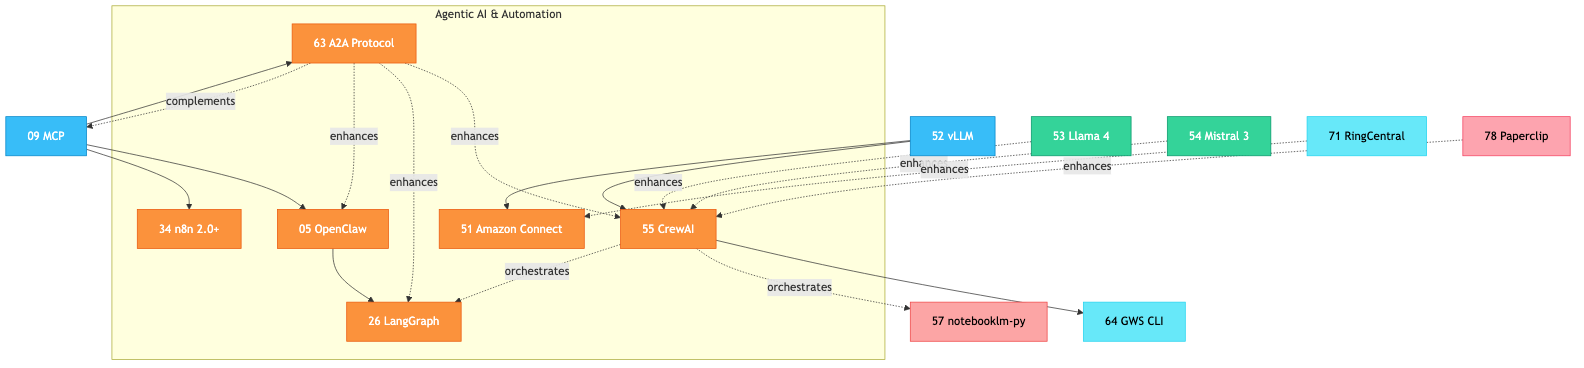
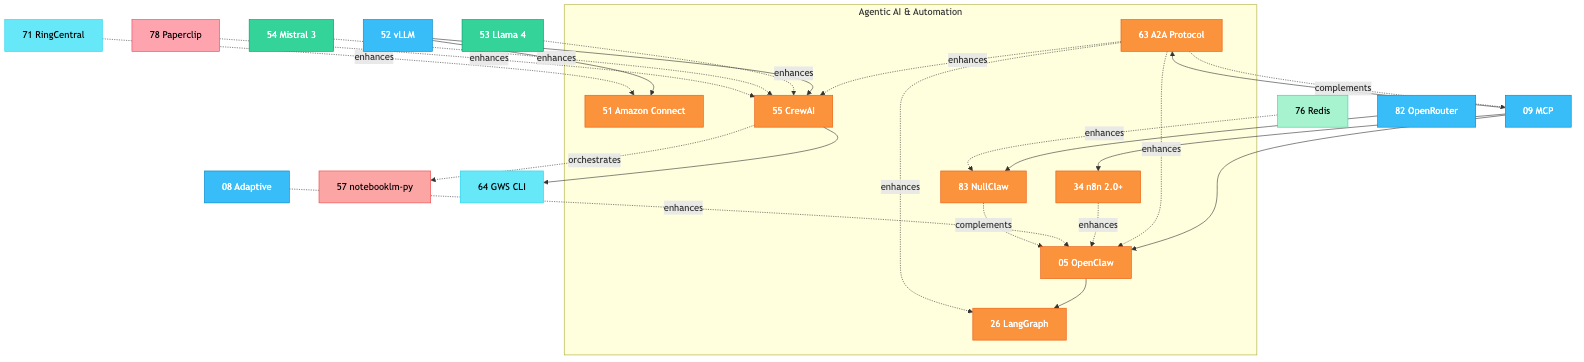
Update experiment roadmap v7.0 with experiments 79-85 and regenerate PNGs
Adds OptiFreight, ShipStation API, Amazon Textract, OpenRouter, NullClaw,
AutoResearch, and WebHaptics to registry, dependency graph, execution tiers,
Gantt chart, parallel tracks, interconnection matrix, platform coverage,
and category legend. Regenerates 7 category PNGs and main dependency chains.

diff --git a/docs/experiments/00-Experiment-Interconnection-Roadmap.md b/docs/experiments/00-Experiment-Interconnection-Roadmap.md
@@ -269,6 +269,8 @@ flowchart TD
         E65["65 FedEx API"]
         E66["66 UPS API"]
         E67["67 OnTime 360"]
+        E79["79 OptiFreight"]
+        E80["80 ShipStation API"]
     end
 
     %% ── Subgraph: Collaboration & Communications ──
@@ -281,6 +283,7 @@ flowchart TD
     %% ── Subgraph: Document Processing ──
     subgraph DOCAI["Document Processing"]
         E69["69 Azure Doc Intel"]
+        E81["81 Amazon Textract"]
     end
 
     %% ── Subgraph: Revenue Cycle & Billing ──
@@ -384,6 +387,11 @@ flowchart TD
     E77 --> E78
     E71 --> E78
 
+    %% ── Hard Dependencies (solid arrows) ── New 79-85
+    E82 --> E83
+    E39 --> E84
+    E37 --> E85
+
     %% ── Complementary / Enhances (dashed arrows) ── Original
     E07 -.->|enhances| E10
     E07 -.->|enhances| E21
@@ -460,6 +468,25 @@ flowchart TD
     E77 -.->|complements| E38
     E78 -.->|enhances| E55
 
+    %% ── Complementary / Enhances (dashed arrows) ── New 79-85
+    E79 -.->|complements| E65
+    E79 -.->|complements| E66
+    E79 -.->|complements| E67
+    E80 -.->|complements| E65
+    E80 -.->|complements| E66
+    E80 -.->|complements| E79
+    E81 -.->|complements| E69
+    E81 -.->|enhances| E78
+    E82 -.->|enhances| E15
+    E82 -.->|enhances| E52
+    E82 -.->|enhances| E29
+    E83 -.->|complements| E05
+    E83 -.->|enhances| E76
+    E84 -.->|enhances| E18
+    E84 -.->|enhances| E07
+    E84 -.->|enhances| E13
+    E85 -.->|enhances| E30
+
     %% ── Color Classes ──
     classDef ui fill:#818cf8,stroke:#4f46e5,color:#fff
     classDef infra fill:#38bdf8,stroke:#0284c7,color:#fff
@@ -484,13 +511,13 @@ flowchart TD
     classDef hie fill:#c4b5fd,stroke:#8b5cf6,color:#fff
     classDef orchestration fill:#fda4af,stroke:#f43f5e,color:#000
 
-    class E00,E01,E02,E03 ui
-    class E09,E08,E15,E29,E52,E42 infra
-    class E06,E13,E20,E53,E54 models
+    class E00,E01,E02,E03,E85 ui
+    class E09,E08,E15,E29,E52,E42,E82 infra
+    class E06,E13,E20,E53,E54,E84 models
     class E07,E10,E21,E30,E33,E35 speech
     class E11,E18 cds
     class E16,E17,E70 interop
-    class E05,E26,E34,E55,E51,E63 agents
+    class E05,E26,E34,E55,E51,E63,E83 agents
     class E37,E38 realtime
     class E25 edge
     class E12,E14,E19,E24,E27,E28,E31,E32,E36,E60,E61,E62 devtool
@@ -499,9 +526,9 @@ flowchart TD
     class E39,E58 platform
     class E57,E59,E41,E40 knowledge
     class E50,E72 security
-    class E65,E66,E67 shipping
+    class E65,E66,E67,E79,E80 shipping
     class E64,E68,E71 comms
-    class E69 docai
+    class E69,E81 docai
     class E73,E74,E75 revcycle
     class E76 cache
     class E77 hie
@@ -564,6 +591,10 @@ Build on Tier 0 foundations. These experiments provide core AI, interop, securit
 | 73 | pVerify | None (insurance eligibility verification) |
 | 74 | FrontRunnerHC | None (provider discovery and network status) |
 | 76 | Redis | None (in-memory cache, Pub/Sub, task queues) |
+| 79 | OptiFreight | None (healthcare freight management) |
+| 80 | ShipStation API | None (multi-carrier shipping) |
+| 81 | Amazon Textract | None (ML-powered document OCR) |
+| 82 | OpenRouter | None (unified AI gateway) |
 
 ### Tier 2 — Integration & Expansion (Weeks 6–9)
 
@@ -600,6 +631,9 @@ Combine Tier 1 capabilities into integrated workflows. Multiple experiments can 
 | 63 | A2A Protocol | 09-MCP (inter-agent communication protocol) |
 | 75 | Xero API | 47-Availity, 73-pVerify, 74-FrontRunnerHC (cloud accounting/invoicing) |
 | 77 | Mirth Connect | 16-FHIR, 17-HL7v2 (healthcare integration engine) |
+| 83 | NullClaw | 82-OpenRouter (ultra-lightweight AI assistant runtime) |
+| 84 | AutoResearch | 39-Docker (autonomous ML model optimization) |
+| 85 | WebHaptics | 37-WebSocket (mobile haptic feedback for clinical UX) |
 
 ### Tier 3 — Advanced Capabilities (Weeks 10–12)
 
@@ -640,12 +674,16 @@ Full end-to-end clinical workflows combining multiple experiments.
 | **Secure Mobile Clinical Platform** | 72 + 25 + 37 | TinyMDM device policy → Edge Vision Stream capture → WebSocket real-time sync |
 | **Revenue Cycle Automation Pipeline** | 73 + 74 + 75 + 47 + 78 | Verify eligibility → Discover providers → Invoice via Xero → Paperclip agent governance |
 | **Healthcare Agent Orchestration Stack** | 78 + 77 + 76 + 37 | Paperclip agents → Mirth Connect message routing → Redis real-time Pub/Sub → WebSocket delivery |
+| **Full-Stack Shipping Platform** | 65 + 66 + 67 + 79 + 80 | FedEx/UPS national + OnTime 360 local + OptiFreight freight management + ShipStation multi-carrier aggregation |
+| **Intelligent Document Pipeline** | 69 + 81 + 78 | Azure Doc Intel + Amazon Textract dual-engine OCR → Paperclip agent-orchestrated review queue |
+| **Omnichannel AI Assistant** | 82 + 83 + 76 + 37 + 05 | OpenRouter multi-model gateway → NullClaw 19-channel AI assistant → Redis cache → WebSocket real-time delivery + OpenClaw cloud complement |
+| **Self-Improving Clinical AI** | 39 + 52 + 84 + 18 + 07 | Docker → vLLM inference → AutoResearch overnight optimization → improved ISIC + MedASR models |
 
 ### Execution Timeline (Gantt)
 
 ```mermaid
 gantt
-    title Experiment Execution Tiers (v6.0)
+    title Experiment Execution Tiers (v7.0)
     dateFormat YYYY-MM-DD
     axisFormat %b %d
 
@@ -689,6 +727,10 @@ gantt
     73 pVerify                 :t73, 2026-03-16, 7d
     74 FrontRunnerHC            :t74, 2026-03-16, 7d
     76 Redis                    :t76, 2026-03-16, 7d
+    79 OptiFreight              :t79, 2026-03-16, 7d
+    80 ShipStation API          :t80, 2026-03-16, 7d
+    81 Amazon Textract          :t81, 2026-03-16, 7d
+    82 OpenRouter               :t82, 2026-03-16, 7d
 
     section Tier 2 — Integration
     05 OpenClaw                :t05, after t09, 10d
@@ -720,6 +762,9 @@ gantt
     63 A2A Protocol             :t63, after t09, 10d
     75 Xero API                :t75, after t73, 10d
     77 Mirth Connect            :t77, after t17, 10d
+    83 NullClaw                 :t83, after t82, 7d
+    84 AutoResearch             :t84, after t39, 10d
+    85 WebHaptics               :t85, after t37, 5d
 
     section Tier 3 — Advanced
     18 ISIC Archive            :t18, after t13, 10d
@@ -749,6 +794,10 @@ gantt
     Secure Mobile Platform     :t_smp, after t72, 10d
     Revenue Cycle Pipeline     :t_rcp, after t78, 14d
     Agent Orchestration Stack  :t_aos, after t78, 10d
+    Full Shipping Platform     :t_fsp, after t80, 10d
+    Intelligent Doc Pipeline   :t_idp, after t81, 10d
+    Omnichannel AI Assistant   :t_oaa, after t83, 10d
+    Self-Improving Clinical AI :t_sca, after t84, 14d
 ```
 
 ---
@@ -762,6 +811,7 @@ Twelve independent tracks that can be staffed and executed simultaneously. Cross
 01-Storybook → 02-v0 → 03-Banani → 00-Tambo
                                        ↑
                                   (needs 09-MCP from Track D)
+85-WebHaptics  (haptic feedback — needs 37-WebSocket from Track C)
 ```
 
 ### Track B — Clinical AI Models
@@ -796,6 +846,11 @@ Twelve independent tracks that can be staffed and executed simultaneously. Cross
          {55-CrewAI, 51-Amazon Connect}
                 ↓
          64-GWS CLI  (agent-to-workspace bridge — depends on CrewAI)
+
+82-OpenRouter → 83-NullClaw  (unified AI gateway → ultra-lightweight AI assistant)
+         (NullClaw complements 05-OpenClaw: NullClaw for edge/lightweight, OpenClaw for cloud)
+
+39-Docker → 84-AutoResearch  (autonomous ML optimization — enhances 18-ISIC, 07-MedASR models)
 
 73-pVerify + 47-Availity + 75-Xero + 77-Mirth + 71-RingCentral → 78-Paperclip
          (AI agent orchestration — governance umbrella consuming multiple experiments)
@@ -843,19 +898,22 @@ Twelve independent tracks that can be staffed and executed simultaneously. Cross
 Integration point: CrewAI (Track D) feeds content → notebooklm-py transforms it
 ```
 
-### Track I — Shipping & Logistics _(new)_
+### Track I — Shipping & Logistics
 ```
 {65-FedEx API, 66-UPS API}  (national shipping — parallel, complementary)
 67-OnTime 360               (local courier dispatch — complements 65/66)
+79-OptiFreight              (healthcare freight management — complements 65/66/67)
+80-ShipStation API          (multi-carrier aggregation — complements all above)
 
 Integration point: 69-Azure Doc Intel (Track J) enhances shipping document processing
+Integration point: 81-Amazon Textract (Track J) enhances shipping document OCR
 ```
 
-### Track J — Clinical Collaboration & Document Processing _(new)_
+### Track J — Clinical Collaboration & Document Processing
 ```
 {68-MS Teams, 71-RingCentral}  (collaboration & communications — parallel)
 64-GWS CLI                     (agent workspace bridge — needs 55-CrewAI from Track D)
-69-Azure Doc Intelligence      (document extraction — standalone)
+{69-Azure Doc Intelligence, 81-Amazon Textract}  (dual-engine document extraction — complementary)
 70-LigoLab MS SQL              (direct LIS connection — enhances 17-HL7v2 from Track C)
 72-TinyMDM                     (Android MDM — standalone, enhances 25-Edge Vision from Track B)
 ```
@@ -895,6 +953,7 @@ flowchart LR
         A1["01 Storybook"] --> A2["02 v0"]
         A1 --> A3["03 Banani"]
         A4["00 Tambo"]
+        A5["85 WebHaptics"]
     end
 
     subgraph B["Track B: Clinical AI"]
@@ -942,6 +1001,12 @@ flowchart LR
         D11["63 A2A"]
         D1 --> D11
         D11 -.->|"enhances"| D9
+        D12["82 OpenRouter"]
+        D13["83 NullClaw"]
+        D14["84 AutoResearch"]
+        D12 --> D13
+        D7 --> D14
+        D13 -.->|"complements"| D3
     end
 
     subgraph E["Track E: Dev Experience"]
@@ -1007,6 +1072,8 @@ flowchart LR
         I1["65 FedEx"]
         I2["66 UPS"]
         I3["67 OnTime 360"]
+        I4["79 OptiFreight"]
+        I5["80 ShipStation"]
     end
 
     subgraph J["Track J: Collaboration"]
@@ -1016,6 +1083,8 @@ flowchart LR
         J4["69 Azure Doc Intel"]
         J5["70 LigoLab"]
         J6["72 TinyMDM"]
+        J7["81 Amazon Textract"]
+        J4 -.->|"complements"| J7
     end
 
     subgraph K["Track K: Revenue Cycle"]
@@ -1065,6 +1134,11 @@ flowchart LR
     CACHE1 -.->|"enhances"| K4
     L1 -.->|"enhances"| J5
     K4 -.->|"enhances"| D9
+    C4 -.->|"required"| A5
+    D12 -.->|"enhances"| D4
+    D14 -.->|"enhances"| B4
+    CACHE1 -.->|"enhances"| D13
+    J7 -.->|"enhances"| K4
 
     style A fill:#eef2ff,stroke:#818cf8
     style B fill:#ecfdf5,stroke:#34d399
@@ -1186,6 +1260,18 @@ _Sparse matrix — only non-empty cells are shown. Experiments 04, 06, 12, 22, 2
 | **77 Mirth Connect** | 16-FHIR, 17-HL7v2 LIS | Healthcare-specific integration engine for HL7v2, FHIR R4, X12 EDI, CDA message routing. Enhances 70-LigoLab (message routing alternative to direct SQL). Complements 38-Kafka (Mirth = healthcare messaging, Kafka = general event streaming). Consumed by 78-Paperclip (Clinical Agent routes labs via Mirth). Channel-based pipeline with JavaScript transformers |
 | **78 Paperclip** | 73-pVerify, 47-Availity, 75-Xero, 77-Mirth Connect, 71-RingCentral | AI agent orchestration governance umbrella. Consumes 73-pVerify (Intake Agent), 47-Availity (Billing Agent claims), 75-Xero (Billing Agent invoices), 77-Mirth (Clinical Agent), 71-RingCentral (Comms Agent). Enhances 55-CrewAI (complementary — Paperclip = organizational governance, CrewAI = task-level multi-agent). 76-Redis provides real-time agent status Pub/Sub. Org charts, budgets, approval gates, immutable audit trail. Multi-clinic isolation via company-scoped data |
 
+### Experiments 79–85 — Relationships to All Others
+
+| Experiment | Hard Dependencies | Complementary / Enhances |
+|-----------|------------------|--------------------------|
+| **79 OptiFreight** | None | Complements 65-FedEx, 66-UPS (OptiFreight abstracts across carriers including FedEx/UPS with healthcare-specialized freight management). Complements 67-OnTime 360 (national freight vs local courier). Complements 80-ShipStation (managed freight vs multi-carrier API aggregation). 76-Redis caches rate quotes and tracking status. 77-Mirth Connect can serve as EDI X12 translation layer for OptiFreight transactions |
+| **80 ShipStation API** | None | Complements 65-FedEx, 66-UPS, 67-OnTime 360 (ShipStation aggregates 200+ carriers into single API). Complements 79-OptiFreight (ShipStation for parcel/label management, OptiFreight for freight optimization). Enhances 34-n8n (n8n can trigger ShipStation shipments from encounter events). 76-Redis caches rate comparison results. A2A (63) could enable agent-based carrier negotiation |
+| **81 Amazon Textract** | None | Complements 69-Azure Doc Intelligence (dual-engine OCR — Textract for AWS-aligned stack, Azure for multilingual fallback). Enhances 43-CMS PA Dataset (automated extraction of PA forms). Enhances 44-Payer Policies (OCR of payer policy documents). Enhances 78-Paperclip (document processing as agent-orchestrated workflow). Human-in-the-loop correction feedback creates training data for continuous improvement |
+| **82 OpenRouter** | None | Enhances 15-Claude Model Selection (expands to 500+ models via single endpoint). Enhances 52-vLLM (OpenRouter as cloud fallback when self-hosted inference is at capacity). Enhances 29-Gemini Interactions (Gemini accessible via OpenRouter alongside all other providers). Complements 83-NullClaw (OpenRouter is NullClaw's recommended provider). BYOK mode maintains HIPAA compliance with existing provider keys |
+| **83 NullClaw** | 82-OpenRouter | Complements 05-OpenClaw (NullClaw = edge/lightweight deployment at 678 KB / ~1 MB RAM, OpenClaw = cloud deployment with rich JS ecosystem). Enhances 76-Redis (NullClaw can use Redis as memory backend for conversation caching). 19 built-in channels (Telegram, Slack, Signal, WhatsApp, web) provide omnichannel clinical data access. Edge-deployable on Jetson Thor (ADR-0007) alongside vision pipeline. Sandbox isolation and pairing authentication for HIPAA compliance |
+| **84 AutoResearch** | 39-Docker | Enhances 18-ISIC Archive (autonomous optimization of dermatology CDS model). Enhances 07-MedASR (overnight fine-tuning of medical speech recognition). Enhances 13-Gemma 3 (automated architecture search for on-premise models). Complements 08-Adaptive Thinking (AutoResearch optimizes models, Adaptive Thinking optimizes reasoning). Complements 05-OpenClaw (AutoResearch improves models, OpenClaw orchestrates workflows using them). Git-native experiment tracking with ~100 experiments per overnight run |
+| **85 WebHaptics** | 37-WebSocket | Enhances 30-ElevenLabs (haptic + audio = multi-sensory feedback). Enhances 00-Tambo (haptic confirmation for conversational analytics actions). Enhances PMS mobile web and Android with tactile confirmation for medication dispensing, encounter signing, critical lab alerts. 37-WebSocket delivers real-time alert events that trigger haptic patterns. User preference toggle stored in PostgreSQL via FastAPI endpoint. Graceful iOS degradation (Vibration API not supported on iOS Safari) |
+
 ---
 
 ## 8. Critical Path Analysis
@@ -1306,9 +1392,9 @@ flowchart LR
 
 | Week | Focus | Experiments |
 |------|-------|-------------|
-| 1 | Infrastructure | 09-MCP + 16-FHIR + 37-WebSocket + 39-Docker + 43-CMS Dataset + 76-Redis (parallel) |
-| 2 | AI Foundation + PA + Revenue Cycle | 52-vLLM + 13-Gemma 3 + 08-Adaptive + 45-CMS API + 44-Payer Policies + 73-pVerify + 74-FrontRunnerHC (parallel) |
-| 3 | Agents + Models + PA + Shipping | 05-OpenClaw + 53-Llama 4 + 54-Mistral 3 + 46-UHC + 65-FedEx + 66-UPS + 75-Xero + 77-Mirth (parallel) |
+| 1 | Infrastructure | 09-MCP + 16-FHIR + 37-WebSocket + 39-Docker + 43-CMS Dataset + 76-Redis + 82-OpenRouter (parallel) |
+| 2 | AI Foundation + PA + Revenue Cycle + Docs | 52-vLLM + 13-Gemma 3 + 08-Adaptive + 45-CMS API + 44-Payer Policies + 73-pVerify + 74-FrontRunnerHC + 81-Textract + 79-OptiFreight + 80-ShipStation (parallel) |
+| 3 | Agents + Models + PA + Shipping | 05-OpenClaw + 83-NullClaw + 53-Llama 4 + 54-Mistral 3 + 84-AutoResearch + 46-UHC + 65-FedEx + 66-UPS + 75-Xero + 77-Mirth + 85-WebHaptics (parallel) |
 | 4 | Dev + UI + Comms + PA + Orchestration | 27-Claude Code + 01-Storybook + 68-MS Teams + 71-RingCentral + 47-Availity + 38-Kafka + 78-Paperclip (parallel) |
 
 ### 1-Quarter Plan (16 Weeks)
@@ -1316,10 +1402,10 @@ flowchart LR
 | Weeks | Tier | Experiments |
 |-------|------|-------------|
 | 1–2 | 0 — Foundation | 04, 09, 16, 01, 19, 22, 23, 27, 28, 39, 43, 50 |
-| 3–5 | 1 — Core | 08, 13, 15, 17, 07, 12, 29, 30, 35, 37, 52, 58, 44, 45, 65, 66, 67, 68, 69, 70, 71, 72, 73, 74, 76 |
-| 6–9 | 2 — Integration | 05, 10, 20, 11, 00, 02, 03, 14, 21, 31, 33, 34, 36, 38, 53, 54, 42, 46, 47, 40, 57, 59, 60, 41, 61, 62, 63, 75, 77 |
+| 3–5 | 1 — Core | 08, 13, 15, 17, 07, 12, 29, 30, 35, 37, 52, 58, 44, 45, 65, 66, 67, 68, 69, 70, 71, 72, 73, 74, 76, 79, 80, 81, 82 |
+| 6–9 | 2 — Integration | 05, 10, 20, 11, 00, 02, 03, 14, 21, 31, 33, 34, 36, 38, 53, 54, 42, 46, 47, 40, 57, 59, 60, 41, 61, 62, 63, 75, 77, 83, 84, 85 |
 | 10–13 | 3 — Advanced | 18, 25, 26, 24, 32, 55, 51, 48, 49, 64, 78 |
-| 14–16 | 4 — Capstone | PA Automation Pipeline, Clinical Doc Pipeline, Clinical Knowledge Pipeline, DermaCheck+Edge, Real-Time Event Pipeline, Voice AI Full Stack, Agent Governance Stack, AI Model Deploy Stack, Specimen Logistics Pipeline, Clinical Comms Stack, Secure Mobile Platform, Revenue Cycle Automation Pipeline, Healthcare Agent Orchestration Stack |
+| 14–16 | 4 — Capstone | PA Automation Pipeline, Clinical Doc Pipeline, Clinical Knowledge Pipeline, DermaCheck+Edge, Real-Time Event Pipeline, Voice AI Full Stack, Agent Governance Stack, AI Model Deploy Stack, Specimen Logistics Pipeline, Clinical Comms Stack, Secure Mobile Platform, Revenue Cycle Automation Pipeline, Healthcare Agent Orchestration Stack, Full-Stack Shipping Platform, Intelligent Document Pipeline, Omnichannel AI Assistant, Self-Improving Clinical AI |
 
 ---
 
@@ -1406,7 +1492,14 @@ flowchart LR
 | 76 Redis | X | X | X | X | | | | |
 | 77 Mirth Connect | X | X | | X | | | | |
 | 78 Paperclip | X | X | | | | | | |
-| **Total** | **55** | **46** | **20** | **22** | **26** | **4** | **27** | **19** |
+| 79 OptiFreight | X | X | X | | | | X | |
+| 80 ShipStation API | X | X | X | X | | | X | |
+| 81 Amazon Textract | X | X | | X | X | | X | |
+| 82 OpenRouter | X | X | | X | X | | X | |
+| 83 NullClaw | X | X | X | X | | X | X | |
+| 84 AutoResearch | X | | | X | X | | | |
+| 85 WebHaptics | | X | X | X | | | | |
+| **Total** | **61** | **52** | **24** | **28** | **29** | **5** | **33** | **19** |
 
 ---
 
@@ -1416,14 +1509,14 @@ Reference for Mermaid diagram styling in Section 3.
 
 | Category | Color | Hex | Experiments |
 |----------|-------|-----|-------------|
-| UI Tools | Indigo | `#818cf8` | 00, 01, 02, 03 |
-| AI Infrastructure | Sky Blue | `#38bdf8` | 08, 09, 15, 29, 52, 42 |
-| On-Premise Models | Emerald | `#34d399` | 06, 13, 20, 53, 54 |
+| UI Tools | Indigo | `#818cf8` | 00, 01, 02, 03, 85 |
+| AI Infrastructure | Sky Blue | `#38bdf8` | 08, 09, 15, 29, 52, 42, 82 |
+| On-Premise Models | Emerald | `#34d399` | 06, 13, 20, 53, 54, 84 |
 | Speech & Voice AI | Amber | `#fbbf24` | 07, 10, 21, 30, 33, 35 |
 | Clinical Decision Support | Red | `#f87171` | 11, 18 |
 | Interoperability | Violet | `#a78bfa` | 16, 17, 70 |
 | Prior Authorization | Purple | `#c084fc` | 43, 44, 45, 46, 47, 48, 49, 56 |
-| Agentic AI & Automation | Orange | `#fb923c` | 05, 26, 34, 55, 51, 63 |
+| Agentic AI & Automation | Orange | `#fb923c` | 05, 26, 34, 55, 51, 63, 83 |
 | Real-Time & Streaming | Rose | `#f472b6` | 37, 38 |
 | Edge Computing | Teal | `#2dd4bf` | 25 |
 | Infrastructure | Mint | `#6ee7b7` | 39, 58 |
@@ -1431,9 +1524,9 @@ Reference for Mermaid diagram styling in Section 3.
 | Security & Compliance | Yellow | `#fde047` | 50, 72 |
 | Dev Tooling | Slate | `#94a3b8` | 12, 14, 19, 24, 27, 28, 31, 32, 36, 60, 61, 62 |
 | Reference & Analysis | Light Gray | `#e2e8f0` | 04, 22, 23 |
-| Shipping & Logistics | Sand | `#d4a574` | 65, 66, 67 |
+| Shipping & Logistics | Sand | `#d4a574` | 65, 66, 67, 79, 80 |
 | Collaboration & Communications | Cyan | `#67e8f9` | 64, 68, 71 |
-| Document Processing | Light Purple | `#d8b4fe` | 69 |
+| Document Processing | Light Purple | `#d8b4fe` | 69, 81 |
 | Revenue Cycle & Billing | Pink | `#f9a8d4` | 73, 74, 75 |
 | Cache & Messaging | Light Green | `#a7f3d0` | 76 |
 | Healthcare Integration Engine | Light Violet | `#c4b5fd` | 77 |
@@ -1445,6 +1538,7 @@ Reference for Mermaid diagram styling in Section 3.
 
 | Version | Date | Author | Changes |
 |---------|------|--------|---------|
+| 7.0 | 2026-03-12 | Ammar | Added Experiments 79–85 (OptiFreight Cardinal Health healthcare freight management, ShipStation multi-carrier shipping API with 200+ carriers, Amazon Textract ML-powered OCR with human-in-the-loop verification and correction feedback, OpenRouter unified AI gateway with 500+ models and BYOK mode, NullClaw 678 KB Zig-based autonomous AI assistant runtime with 19 channels and edge deployment, AutoResearch Karpathy autonomous ML experimentation framework, WebHaptics browser Vibration API for clinical haptic feedback). Five new clusters: Extended Shipping (79–80), Document Processing (81), AI Infrastructure & Gateway (82–83), Autonomous Model Optimization (84), Mobile UX (85). Four new Tier 4 capstones: Full-Stack Shipping Platform, Intelligent Document Pipeline, Omnichannel AI Assistant, Self-Improving Clinical AI. Updated Tracks A (WebHaptics), D (OpenRouter, NullClaw, AutoResearch), I (OptiFreight, ShipStation), J (Amazon Textract). Experiment count: 79 → 86 |
 | 6.0 | 2026-03-11 | Ammar | Added Experiments 73–78 (pVerify insurance eligibility, FrontRunnerHC provider discovery, Xero API cloud accounting with company backup, Redis in-memory cache/Pub/Sub/task queues, Mirth Connect healthcare integration engine for HL7v2/FHIR/X12 EDI, Paperclip AI agent orchestration with org charts/budgets/governance). Three new clusters: Revenue Cycle & Billing (73–75), Healthcare Integration Engine (77), AI Agent Orchestration (76, 78). New Tracks K (Revenue Cycle) and L (Healthcare Integration Engine). Two new Tier 4 capstones: Revenue Cycle Automation Pipeline, Healthcare Agent Orchestration Stack. New critical path: Revenue Cycle + Agent Orchestration (75 days). Updated bottleneck counts: 47-Availity (2→4), 16-FHIR (4→5). Four new color categories (Revenue Cycle, Cache, HIE, Orchestration). Experiment count: 73 → 79 |
 | 5.0 | 2026-03-10 | Ammar | Added Experiments 64–72 (GWS CLI workspace automation, FedEx API, UPS API, OnTime 360 local courier, MS Teams collaboration, Azure Document Intelligence, LigoLab MS SQL LIS, RingCentral unified comms, TinyMDM Android MDM). Four new clusters: Shipping & Logistics (65–67), Clinical Collaboration & Communications (64, 68, 71), Document Processing & Lab Integration (69–70), Mobile Device Management (72). New Tracks I (Shipping) and J (Collaboration). Three new Tier 4 capstones: Specimen Logistics Pipeline, Clinical Communications Stack, Secure Mobile Clinical Platform. Updated Path 2 critical path (59→66 days with GWS CLI). Three new color categories (Shipping, Communications, Document AI). Updated bottleneck counts: 52-vLLM (6→7). Experiment count: 64 → 73 |
 | 4.0 | 2026-03-09 | Ammar | Added Experiments 61–63 (GSD spec-driven execution, Spec Kit specification-layer SDD, A2A Protocol inter-agent communication). New cluster: Spec-Driven Development (61–62) and Agent Interoperability (63). Updated Track D with A2A, Track E with GSD/Spec Kit. New Tier 4 capstone: Spec-Driven Dev Pipeline. Updated bottleneck counts: 27-Claude Code (10→12), 09-MCP (7→8). Experiment count: 61 → 64 |
